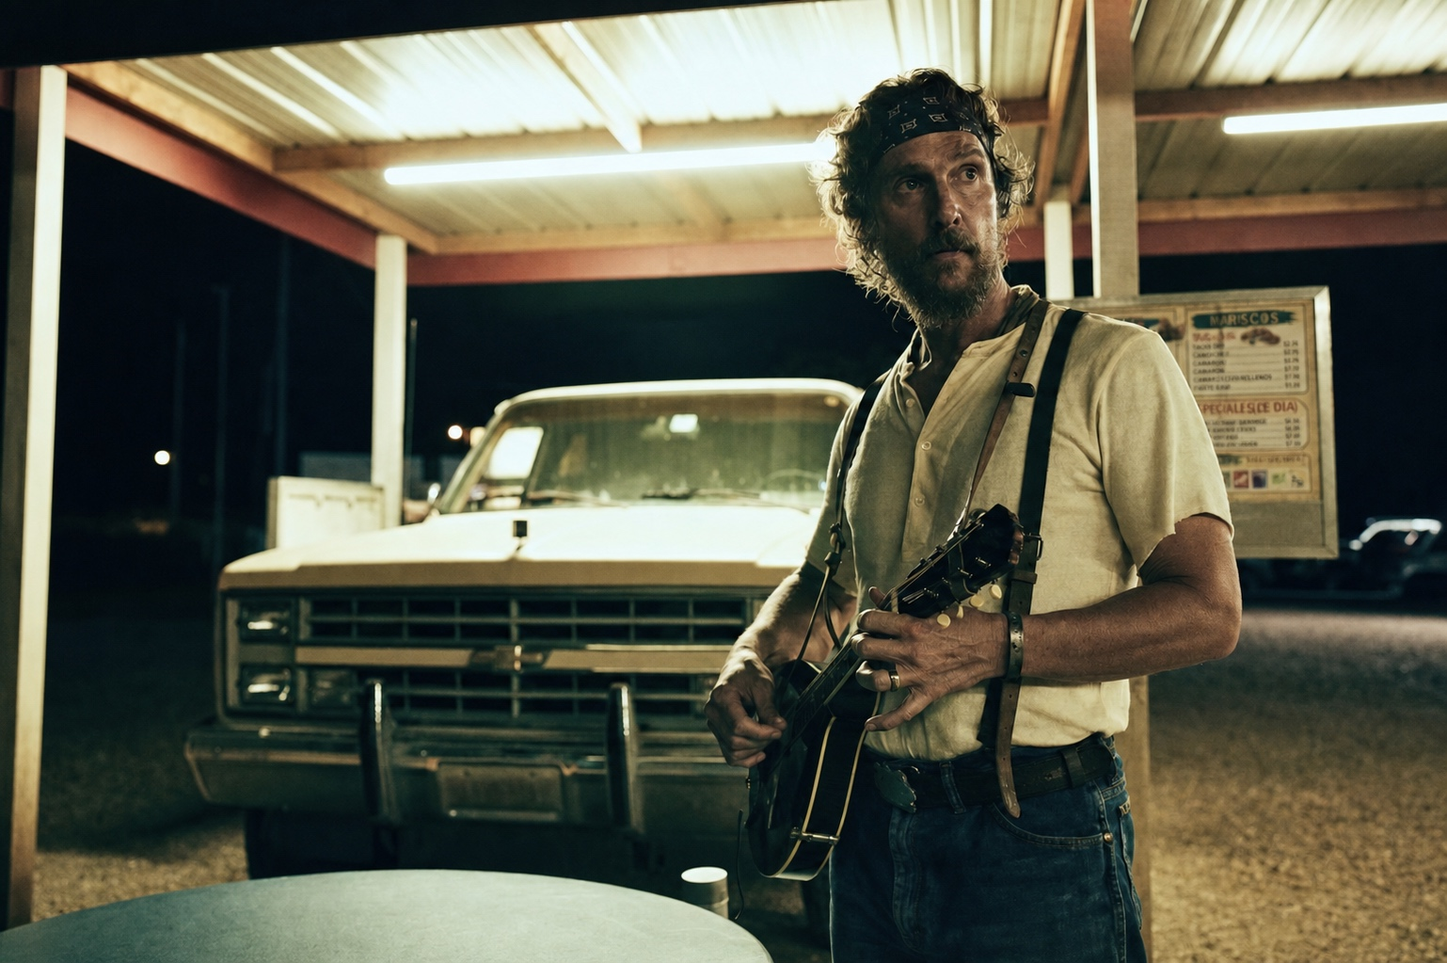
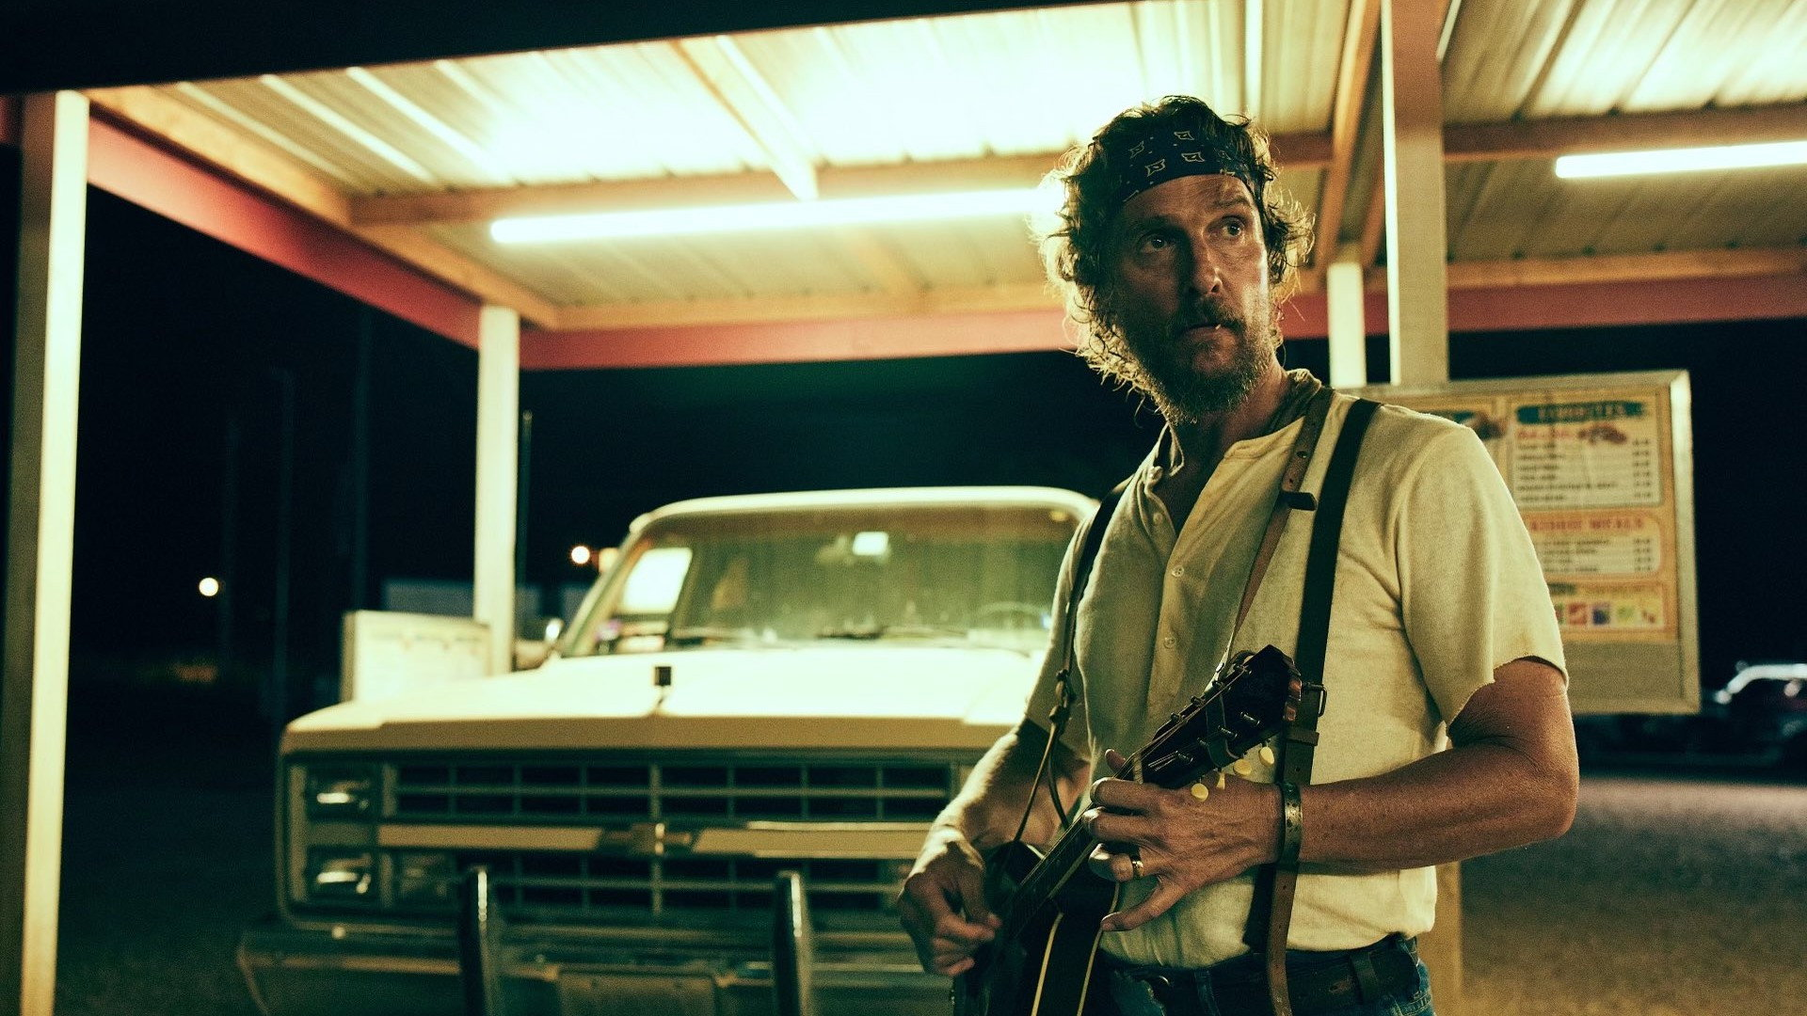
Add poster previews and refresh hero stills

diff --git a/index.html b/index.html
@@ -9,7 +9,7 @@
 <meta name="description" content="Jen Kennedy — costume designer for film and television. The Rivals of Amziah King, The God of the Woods, His &amp; Hers, Lessons in Chemistry. Member, Costume Designers Guild. LA + NYC.">
 <meta property="og:title" content="Jen Kennedy — Costume Design">
 <meta property="og:description" content="Costume design for film and television — from independent features to Emmy-nominated studio series.">
-<meta property="og:image" content="https://jenkennedy.co/assets/rivals-night-2.jpg?v=2">
+<meta property="og:image" content="https://jenkennedy.co/assets/rivals-night-2.jpg?v=3">
 <meta property="og:image:alt" content="Matthew McConaughey at a roadside gas station at night in The Rivals of Amziah King">
 <meta property="og:url" content="https://jenkennedy.co/">
 <meta property="og:type" content="profile">
@@ -17,7 +17,7 @@
 <meta name="twitter:card" content="summary_large_image">
 <meta name="twitter:title" content="Jen Kennedy — Costume Design">
 <meta name="twitter:description" content="Costume design for film and television — from independent features to Emmy-nominated studio series.">
-<meta name="twitter:image" content="https://jenkennedy.co/assets/rivals-night-2.jpg?v=2">
+<meta name="twitter:image" content="https://jenkennedy.co/assets/rivals-night-2.jpg?v=3">
 <link rel="canonical" href="https://jenkennedy.co/">
 <script type="application/ld+json">
 {"@context":"https://schema.org","@type":"Person","name":"Jen Kennedy","jobTitle":"Costume Designer",
@@ -33,7 +33,7 @@ if(!/(^|\.)jenkennedy\.co$/.test(location.hostname)&&!/(^|\.)jenkennedycostumede
 <link rel="preload" as="font" type="font/woff2" href="assets/fonts/fraunces-normal-latin.woff2" crossorigin>
 <link rel="preload" as="font" type="font/woff2" href="assets/fonts/fragment-mono-normal-latin.woff2" crossorigin>
 <link rel="preload" as="font" type="font/woff2" href="assets/fonts/fraunces-italic-latin.woff2" crossorigin>
-<link rel="preload" as="image" href="assets/rivals-night-2.jpg?v=2" fetchpriority="high">
+<link rel="preload" as="image" href="assets/rivals-night-2.jpg?v=3" fetchpriority="high">
 <style>
   @font-face{font-family:'Fragment Mono';font-style:italic;font-weight:400;font-display:swap;src:url(assets/fonts/fragment-mono-italic-latin-ext.woff2) format('woff2');unicode-range:U+0100-02BA, U+02BD-02C5, U+02C7-02CC, U+02CE-02D7, U+02DD-02FF, U+0304, U+0308, U+0329, U+1D00-1DBF, U+1E00-1E9F, U+1EF2-1EFF, U+2020, U+20A0-20AB, U+20AD-20C0, U+2113, U+2C60-2C7F, U+A720-A7FF}
   @font-face{font-family:'Fragment Mono';font-style:italic;font-weight:400;font-display:swap;src:url(assets/fonts/fragment-mono-italic-latin.woff2) format('woff2');unicode-range:U+0000-00FF, U+0131, U+0152-0153, U+02BB-02BC, U+02C6, U+02DA, U+02DC, U+0304, U+0308, U+0329, U+2000-206F, U+20AC, U+2122, U+2191, U+2193, U+2212, U+2215, U+FEFF, U+FFFD}
@@ -159,6 +159,9 @@ if(!/(^|\.)jenkennedy\.co$/.test(location.hostname)&&!/(^|\.)jenkennedycostumede
   .trailer-link .tri{width:0;height:0;border-left:7px solid var(--amber);border-top:4.5px solid transparent;border-bottom:4.5px solid transparent;transition:transform .3s}
   .trailer-link:hover{color:var(--amber)}
   .trailer-link:hover .tri{transform:scale(1.25)}
+  .trailer-link:disabled{color:var(--ink-dim);cursor:default;opacity:.62}
+  .trailer-link:disabled .tri{border-left-color:var(--ink-dim)}
+  .trailer-link:disabled:hover .tri{transform:none}
   .hero-index{position:absolute;z-index:2;right:40px;bottom:56px;color:var(--ink-dim);text-align:right}
   .hero-index .num{color:var(--ink)}
   .reveal{opacity:0;transform:translateY(18px);animation:rise .9s cubic-bezier(.2,.6,.2,1) forwards;animation-delay:1.45s}
@@ -219,13 +222,14 @@ if(!/(^|\.)jenkennedy\.co$/.test(location.hostname)&&!/(^|\.)jenkennedycostumede
 
   /* floating preview on hover (desktop only) */
   .peek{
-    position:absolute;z-index:5;left:47%;transform-origin:center;top:50%;
-    width:470px;aspect-ratio:16/10;pointer-events:none;
+    position:fixed;z-index:40;left:50%;transform-origin:center;top:50%;
+    width:clamp(220px,20vw,290px);aspect-ratio:2/3;pointer-events:none;
     opacity:0;transform:translate(-50%,-46%) rotate(.6deg) scale(.97);
     transition:opacity .35s,transform .45s cubic-bezier(.2,.6,.2,1);
-    box-shadow:0 30px 80px rgba(0,0,0,.65);
+    background:var(--bg-2);box-shadow:0 30px 80px rgba(0,0,0,.65);
   }
-  .peek img{width:100%;height:100%;object-fit:cover;filter:saturate(.96)}
+  .peek.peek-still{width:min(470px,36vw);aspect-ratio:16/10}
+  .peek img{width:100%;height:100%;object-fit:cover;display:block;filter:saturate(.96)}
   .row-wrap:not(.open):hover .peek,.index.demo .row.demo-hover .peek{opacity:1;transform:translate(-50%,-50%) rotate(0) scale(1)}
 
   /* ---------- expansion panel (soft unfold) ---------- */
@@ -259,6 +263,9 @@ if(!/(^|\.)jenkennedy\.co$/.test(location.hostname)&&!/(^|\.)jenkennedycostumede
   .exp-stills figure:hover img{transform:scale(1.025)}
   .exp-stills.single{grid-template-columns:1fr}
   .exp-stills.single img{aspect-ratio:21/9}
+  .exp-stills.plainville-media{grid-template-columns:1fr}
+  .exp-stills.plainville-media .poster-figure{max-width:260px;justify-self:start}
+  .exp-stills.plainville-media .poster-figure img{aspect-ratio:2/3}
 
   /* cast cards — uniform duotone portraits, credits not paparazzi */
   .cast{display:flex;gap:14px;align-content:start;flex-wrap:wrap}
@@ -392,6 +399,7 @@ if(!/(^|\.)jenkennedy\.co$/.test(location.hostname)&&!/(^|\.)jenkennedycostumede
     .row .year{display:none}
     .exp-grid{grid-template-columns:1fr;gap:26px;padding:4px 0 34px 34px}
     .exp-stills{grid-template-columns:1fr}
+    .exp-stills.plainville-media .poster-figure{max-width:240px}
     .about{padding:110px 20px 0}
     .about .aff{gap:10px;flex-direction:column}
     footer{padding:54px 20px 40px;margin-top:110px}
@@ -432,15 +440,15 @@ if(!/(^|\.)jenkennedy\.co$/.test(location.hostname)&&!/(^|\.)jenkennedycostumede
 
 <!-- HERO -->
 <div class="hero" id="hero">
-  <div class="hslide active"><img src="assets/rivals-night-2.jpg?v=2" fetchpriority="high"
-       style="--pos:center 22%;--posM:56% 22%"
+  <div class="hslide active"><img src="assets/rivals-night-2.jpg?v=3" fetchpriority="high"
+       style="--pos:64% 50%;--posM:68% 50%"
        alt="Matthew McConaughey in aged workwear beside a pickup truck at a gas station at night"></div>
   <div class="hero-caption">
     <span class="mono eyebrow reveal d1" id="h-eyebrow">Costume Design — Feature Film</span>
     <h1 class="reveal d2"><span id="h-title-inner"><span id="h-title">The Rivals of <em>Amziah King</em></span></span></h1>
     <div class="hero-meta reveal d3">
       <span class="mono credit" id="h-credit">Heyday · Black Bear&nbsp;&nbsp;—&nbsp;&nbsp;In cinemas August 2026</span>
-      <button class="trailer-link" id="h-trailer" data-yt="ygWCRqmH0Ts"><span class="tri"></span>Watch trailer</button>
+      <button class="trailer-link" id="h-trailer" data-yt="GwSvAyaMGMo"><span class="tri"></span>Watch trailer</button>
     </div>
   </div>
   <button class="hero-index mono" id="h-next" aria-label="Next project">
@@ -462,6 +470,7 @@ if(!/(^|\.)jenkennedy\.co$/.test(location.hostname)&&!/(^|\.)jenkennedycostumede
         <span class="title">The Rivals of Amziah King</span>
         <span class="studio">Heyday / Black Bear</span>
         <span class="year">2026</span>
+        <span class="peek" aria-hidden="true"><img loading="lazy" decoding="async" data-src="assets/poster-amziah.jpg?v=1" alt=""></span>
       </button>
       <div class="exp">
         <div class="exp-inner">
@@ -471,7 +480,7 @@ if(!/(^|\.)jenkennedy\.co$/.test(location.hostname)&&!/(^|\.)jenkennedycostumede
               <div class="fact"><span class="k">Director</span><span class="v">Andrew Patterson</span></div>
               <div class="fact"><span class="k">Starring</span><span class="v">Matthew McConaughey<br>Angelina LookingGlass · Kurt Russell</span></div>
               <div class="fact"><span class="k">Release</span><span class="v">In cinemas August 14, 2026</span></div>
-              <button class="trailer-link" data-yt="ygWCRqmH0Ts"><span class="tri"></span>Watch trailer</button>
+              <button class="trailer-link" data-yt="GwSvAyaMGMo"><span class="tri"></span>Watch trailer</button>
               <div class="cast">
                 <div class="card"><div class="ph"><img loading="lazy" decoding="async" data-src="assets/cast-mcconaughey.jpg?v=2" alt="Matthew McConaughey"></div><div class="nm">Matthew McConaughey</div></div>
                 <div class="card"><div class="ph"><img loading="lazy" decoding="async" data-src="assets/cast-russell.jpg?v=2" alt="Kurt Russell"></div><div class="nm">Kurt Russell</div></div>
@@ -492,6 +501,7 @@ if(!/(^|\.)jenkennedy\.co$/.test(location.hostname)&&!/(^|\.)jenkennedycostumede
         <span class="title">The God of the Woods</span>
         <span class="studio">Sony / Netflix</span>
         <span class="year">2027</span>
+        <span class="peek peek-still" aria-hidden="true"><img loading="lazy" decoding="async" data-src="assets/gow-cast.jpg?v=2" alt=""></span>
       </button>
       <div class="exp">
         <div class="exp-inner">
@@ -501,6 +511,7 @@ if(!/(^|\.)jenkennedy\.co$/.test(location.hostname)&&!/(^|\.)jenkennedycostumede
               <div class="fact"><span class="k">Showrunners</span><span class="v">Liz Moore · Liz Hannah</span></div>
               <div class="fact"><span class="k">Starring</span><span class="v">Maya Hawke · Kerry Condon</span></div>
               <div class="fact"><span class="k">Status</span><span class="v">In production — Netflix limited series</span></div>
+              <button class="trailer-link" type="button" disabled><span class="tri"></span>Trailer forthcoming</button>
             </div>
             <div class="cast">
               <div class="card"><div class="ph"><img loading="lazy" decoding="async" data-src="assets/cast-hawke.jpg?v=2" alt="Maya Hawke"></div><div class="nm">Maya Hawke</div></div>
@@ -517,6 +528,7 @@ if(!/(^|\.)jenkennedy\.co$/.test(location.hostname)&&!/(^|\.)jenkennedycostumede
         <span class="title">Tell Me a Secret</span>
         <span class="studio">Sundance Lab</span>
         <span class="year">2027</span>
+        <span class="peek peek-still" aria-hidden="true"><img loading="lazy" decoding="async" data-src="assets/tell-me-a-secret.jpg?v=2" alt=""></span>
       </button>
       <div class="exp">
         <div class="exp-inner">
@@ -526,6 +538,7 @@ if(!/(^|\.)jenkennedy\.co$/.test(location.hostname)&&!/(^|\.)jenkennedycostumede
               <div class="fact"><span class="k">Director</span><span class="v">Montana Mann</span></div>
               <div class="fact"><span class="k">Starring</span><span class="v">Willa Fitzgerald<br>Ava Lalezarzadeh</span></div>
               <div class="fact"><span class="k">Status</span><span class="v">In production</span></div>
+              <button class="trailer-link" type="button" disabled><span class="tri"></span>Trailer forthcoming</button>
               <div class="cast">
                 <div class="card"><div class="ph"><img loading="lazy" decoding="async" data-src="assets/cast-fitzgerald.jpg?v=2" alt="Willa Fitzgerald"></div><div class="nm">Willa Fitzgerald</div></div>
               </div>
@@ -536,7 +549,6 @@ if(!/(^|\.)jenkennedy\.co$/.test(location.hostname)&&!/(^|\.)jenkennedycostumede
           </div>
         </div>
       </div>
-      <span class="peek" aria-hidden="true"><img loading="lazy" decoding="async" data-src="assets/tell-me-a-secret.jpg?v=2" alt="A face reflected upside down in still water among yellow wildflowers, Tell Me a Secret"></span>
     </div>
 
     <div id="parachute" class="row-wrap">
@@ -545,6 +557,7 @@ if(!/(^|\.)jenkennedy\.co$/.test(location.hostname)&&!/(^|\.)jenkennedycostumede
         <span class="title">Parachute</span>
         <span class="studio">Independent</span>
         <span class="year">2027</span>
+        <span class="peek peek-still" aria-hidden="true"><img loading="lazy" decoding="async" data-src="assets/parachute-cast.jpg?v=2" alt=""></span>
       </button>
       <div class="exp">
         <div class="exp-inner">
@@ -554,6 +567,7 @@ if(!/(^|\.)jenkennedy\.co$/.test(location.hostname)&&!/(^|\.)jenkennedycostumede
               <div class="fact"><span class="k">Director</span><span class="v">Annie Silverstein</span></div>
               <div class="fact"><span class="k">Starring</span><span class="v">Emma D’Arcy · Haley Bennett</span></div>
               <div class="fact"><span class="k">Status</span><span class="v">In production</span></div>
+              <button class="trailer-link" type="button" disabled><span class="tri"></span>Trailer forthcoming</button>
             </div>
             <div class="cast">
               <div class="card"><div class="ph"><img loading="lazy" decoding="async" data-src="assets/parachute-cast.jpg?v=2" style="object-position:16% 18%" alt="Haley Bennett"></div><div class="nm">Haley Bennett</div></div>
@@ -570,7 +584,7 @@ if(!/(^|\.)jenkennedy\.co$/.test(location.hostname)&&!/(^|\.)jenkennedycostumede
         <span class="title">I Don’t Understand You</span>
         <span class="studio">Hulu / Vertical</span>
         <span class="year">2024</span>
-        <span class="peek" aria-hidden="true"><img loading="lazy" decoding="async" data-src="assets/iduy-street.jpg?v=2" alt="Nick Kroll and Andrew Rannells walking an Italian street in autumn layers, I Don’t Understand You"></span>
+        <span class="peek" aria-hidden="true"><img loading="lazy" decoding="async" data-src="assets/poster-iduy.jpg?v=1" alt=""></span>
       </button>
       <div class="exp">
         <div class="exp-inner">
@@ -596,7 +610,7 @@ if(!/(^|\.)jenkennedy\.co$/.test(location.hostname)&&!/(^|\.)jenkennedycostumede
         <span class="title">Stay at Conder Beach</span>
         <span class="studio">Greyshack</span>
         <span class="year">2025</span>
-        <span class="peek" aria-hidden="true"><img loading="lazy" decoding="async" data-src="assets/conder-beach.jpg?v=2" alt="A man lying on a workbench in warm afternoon light, Stay at Conder Beach"></span>
+        <span class="peek peek-still" aria-hidden="true"><img loading="lazy" decoding="async" data-src="assets/conder-beach.jpg?v=2" alt=""></span>
       </button>
       <div class="exp">
         <div class="exp-inner">
@@ -605,6 +619,7 @@ if(!/(^|\.)jenkennedy\.co$/.test(location.hostname)&&!/(^|\.)jenkennedycostumede
               <div class="fact"><span class="k">Role</span><span class="v">Costume Designer</span></div>
               <div class="fact"><span class="k">Director</span><span class="v">Aaron Khandros</span></div>
               <div class="fact"><span class="k">Starring</span><span class="v">Joseph Cross · Annabeth Gish</span></div>
+              <button class="trailer-link" type="button" disabled><span class="tri"></span>Trailer forthcoming</button>
             </div>
             <div class="exp-stills single">
               <figure><img loading="lazy" decoding="async" data-src="assets/conder-beach.jpg?v=2" alt="A man lying on a workbench in warm afternoon light, Stay at Conder Beach"></figure>
@@ -620,7 +635,7 @@ if(!/(^|\.)jenkennedy\.co$/.test(location.hostname)&&!/(^|\.)jenkennedycostumede
         <span class="title">His &amp; Hers</span>
         <span class="studio">Netflix / Fifth Season</span>
         <span class="year">2026</span>
-        <span class="peek" aria-hidden="true"><img loading="lazy" decoding="async" data-src="assets/hisher-3.jpg?v=2" alt="Tessa Thompson in a teal patterned blouse holding a camcorder, His and Hers"></span>
+        <span class="peek" aria-hidden="true"><img loading="lazy" decoding="async" data-src="assets/poster-his-hers.jpg?v=1" alt=""></span>
       </button>
       <div class="exp">
         <div class="exp-inner">
@@ -629,7 +644,7 @@ if(!/(^|\.)jenkennedy\.co$/.test(location.hostname)&&!/(^|\.)jenkennedycostumede
               <div class="fact"><span class="k">Credit</span><span class="v">Assistant Costume Designer<br>to Mirren Gordon-Crozier</span></div>
               <div class="fact"><span class="k">Director</span><span class="v">William Oldroyd</span></div>
               <div class="fact"><span class="k">Starring</span><span class="v">Tessa Thompson · Jon Bernthal</span></div>
-              <button class="trailer-link" data-yt="tdf4bU58OzQ"><span class="tri"></span>Watch trailer</button>
+              <button class="trailer-link" data-yt="8_szlvBLll0"><span class="tri"></span>Watch trailer</button>
             </div>
             <div class="exp-stills">
               <figure><img loading="lazy" decoding="async" data-src="assets/hisher-1.jpg?v=2" alt="An actor in a red wool suit and orange turtleneck seated at a desk, His and Hers"></figure>
@@ -646,7 +661,7 @@ if(!/(^|\.)jenkennedy\.co$/.test(location.hostname)&&!/(^|\.)jenkennedycostumede
         <span class="title">Lessons in Chemistry</span>
         <span class="studio">Apple TV+ · <span class="honor">Emmy-nominated</span></span>
         <span class="year">2023</span>
-        <span class="peek" aria-hidden="true"><img loading="lazy" decoding="async" data-src="assets/lessons.jpg?v=2" alt="Brie Larson in a belted 1950s dress in a pastel kitchen, Lessons in Chemistry"></span>
+        <span class="peek" aria-hidden="true"><img loading="lazy" decoding="async" data-src="assets/poster-lessons.jpg?v=1" alt=""></span>
       </button>
       <div class="exp">
         <div class="exp-inner">
@@ -655,6 +670,7 @@ if(!/(^|\.)jenkennedy\.co$/.test(location.hostname)&&!/(^|\.)jenkennedycostumede
               <div class="fact"><span class="k">Credit</span><span class="v">Assistant Costume Designer<br>to Mirren Gordon-Crozier</span></div>
               <div class="fact"><span class="k">Honors</span><span class="v hl">Emmy-nominated — Outstanding Period Costumes</span></div>
               <div class="fact"><span class="k">Starring</span><span class="v">Brie Larson</span></div>
+              <button class="trailer-link" data-yt="-1PuK8mxASE"><span class="tri"></span>Watch trailer</button>
             </div>
             <div class="exp-stills single">
               <figure><img loading="lazy" decoding="async" data-src="assets/lessons.jpg?v=2" alt="Brie Larson in a belted 1950s dress in a pastel kitchen, Lessons in Chemistry"></figure>
@@ -670,7 +686,7 @@ if(!/(^|\.)jenkennedy\.co$/.test(location.hostname)&&!/(^|\.)jenkennedycostumede
         <span class="title">The Burial</span>
         <span class="studio">Amazon MGM</span>
         <span class="year">2023</span>
-        <span class="peek" aria-hidden="true"><img loading="lazy" decoding="async" data-src="assets/burial.jpg?v=2" alt="Jamie Foxx in a blue suit and Tommy Lee Jones in pinstripes seated on a staircase, The Burial"></span>
+        <span class="peek" aria-hidden="true"><img loading="lazy" decoding="async" data-src="assets/poster-burial.jpg?v=1" alt=""></span>
       </button>
       <div class="exp">
         <div class="exp-inner">
@@ -678,6 +694,7 @@ if(!/(^|\.)jenkennedy\.co$/.test(location.hostname)&&!/(^|\.)jenkennedycostumede
             <div class="facts">
               <div class="fact"><span class="k">Credit</span><span class="v">Assistant Costume Designer<br>to Mirren Gordon-Crozier</span></div>
               <div class="fact"><span class="k">Starring</span><span class="v">Jamie Foxx · Tommy Lee Jones</span></div>
+              <button class="trailer-link" data-yt="ZOhIdaufd3Q"><span class="tri"></span>Watch trailer</button>
             </div>
             <div class="exp-stills single">
               <figure><img loading="lazy" decoding="async" data-src="assets/burial.jpg?v=2" alt="Jamie Foxx in a blue suit and Tommy Lee Jones in pinstripes seated on a staircase, The Burial"></figure>
@@ -693,7 +710,7 @@ if(!/(^|\.)jenkennedy\.co$/.test(location.hostname)&&!/(^|\.)jenkennedycostumede
         <span class="title">Where the Crawdads Sing</span>
         <span class="studio">Columbia / Hello Sunshine</span>
         <span class="year">2022</span>
-        <span class="peek" aria-hidden="true"><img loading="lazy" decoding="async" data-src="assets/crawdads.jpg?v=2" alt="Period costume still from Where the Crawdads Sing"></span>
+        <span class="peek" aria-hidden="true"><img loading="lazy" decoding="async" data-src="assets/poster-crawdads.jpg?v=1" alt=""></span>
       </button>
       <div class="exp">
         <div class="exp-inner">
@@ -701,6 +718,7 @@ if(!/(^|\.)jenkennedy\.co$/.test(location.hostname)&&!/(^|\.)jenkennedycostumede
             <div class="facts">
               <div class="fact"><span class="k">Credit</span><span class="v">Assistant Costume Designer<br>to Mirren Gordon-Crozier</span></div>
               <div class="fact"><span class="k">Starring</span><span class="v">Daisy Edgar-Jones</span></div>
+              <button class="trailer-link" data-yt="PY3808Iq0Tg"><span class="tri"></span>Watch trailer</button>
             </div>
             <div class="exp-stills single">
               <figure><img loading="lazy" decoding="async" data-src="assets/crawdads.jpg?v=2" alt="Period costume still from Where the Crawdads Sing"></figure>
@@ -716,7 +734,7 @@ if(!/(^|\.)jenkennedy\.co$/.test(location.hostname)&&!/(^|\.)jenkennedycostumede
         <span class="title">The Girl from Plainville</span>
         <span class="studio">Hulu / UCP</span>
         <span class="year">2022</span>
-        <span class="peek" aria-hidden="true"><img loading="lazy" decoding="async" data-src="assets/plainville.jpg?v=2" alt="Elle Fanning and Chloë Sevigny in dark dresses, The Girl from Plainville"></span>
+        <span class="peek" aria-hidden="true"><img loading="lazy" decoding="async" data-src="assets/poster-plainville.jpg?v=1" alt=""></span>
       </button>
       <div class="exp">
         <div class="exp-inner">
@@ -724,9 +742,11 @@ if(!/(^|\.)jenkennedy\.co$/.test(location.hostname)&&!/(^|\.)jenkennedycostumede
             <div class="facts">
               <div class="fact"><span class="k">Credit</span><span class="v">Assistant Costume Designer<br>to Mirren Gordon-Crozier</span></div>
               <div class="fact"><span class="k">Starring</span><span class="v">Elle Fanning · Chloë Sevigny</span></div>
+              <button class="trailer-link" data-yt="B-RadqZ-A3o"><span class="tri"></span>Watch trailer</button>
             </div>
-            <div class="exp-stills single">
+            <div class="exp-stills plainville-media">
               <figure><img loading="lazy" decoding="async" data-src="assets/plainville.jpg?v=2" alt="Elle Fanning and Chloë Sevigny in dark dresses, The Girl from Plainville"></figure>
+              <figure class="poster-figure"><img loading="lazy" decoding="async" data-src="assets/poster-plainville.jpg?v=1" alt="The Girl from Plainville poster featuring Elle Fanning"></figure>
             </div>
           </div>
         </div>
@@ -780,12 +800,12 @@ if(!/(^|\.)jenkennedy\.co$/.test(location.hostname)&&!/(^|\.)jenkennedycostumede
 
   /* ---------- hero carousel: dissolve & drift ---------- */
   const HERO = [
-    {img:'assets/rivals-night-2.jpg?v=2', pos:'center 22%', posM:'56% 22%', yt:'ygWCRqmH0Ts',
+    {img:'assets/rivals-night-2.jpg?v=3', pos:'64% 50%', posM:'68% 50%', yt:'GwSvAyaMGMo',
      alt:'Matthew McConaughey in aged workwear beside a pickup truck at a gas station at night',
      eyebrow:'Costume Design — Feature Film', title:'The Rivals of <em>Amziah King</em>',
      credit:'Heyday · Black Bear&nbsp;&nbsp;—&nbsp;&nbsp;In cinemas August 2026'},
-    {img:'assets/rivals-russell.jpg?v=2', pos:'center 30%', posM:'74% 30%', yt:'ygWCRqmH0Ts',
-     alt:'Kurt Russell in a striped short-sleeve shirt and western boots, lounging beside a cowboy hat',
+    {img:'assets/rivals-russell.jpg?v=3', pos:'70% 50%', posM:'84% 48%', yt:'GwSvAyaMGMo',
+     alt:'Kurt Russell in aviator sunglasses and a striped shirt seated beside a cowboy hat at an indoor gathering',
      eyebrow:'Costume Design — Feature Film', title:'The Rivals of <em>Amziah King</em>',
      credit:'Heyday · Black Bear&nbsp;&nbsp;—&nbsp;&nbsp;In cinemas August 2026'},
     {img:'assets/iduy-street.jpg?v=2', pos:'center 42%', posM:'66% 42%', yt:'fgXrFNeVwN4',
